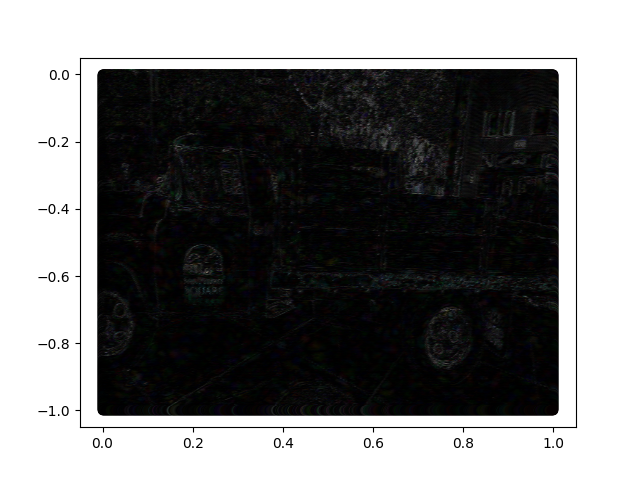
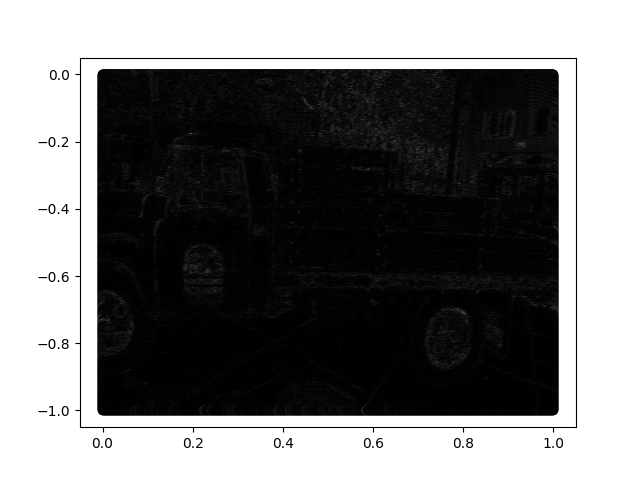
Updates

diff --git a/models/PeriodicPrimitives2D.py b/models/PeriodicPrimitives2D.py
@@ -78,11 +78,11 @@ class PeriodicPrimitives2D(torch.nn.Module):
     
     def create_optimizer(self):
         l = [
-            {'params': [self.gaussian_colors], 'lr': 0.01, "name": "gaussian_colors"},
-            {'params': [self.gaussian_positions], 'lr': 0.01, "name": "gaussian_positions"},
-            {'params': [self.gaussian_scales], 'lr': 0.01, "name": "gaussian_scales"},
-            {'params': [self.gaussian_rotations], 'lr': 0.1, "name": "gaussian_rotations"},
-            {'params': [self.wave_coefficients], 'lr': 0.01, "name": "wave_coefficients"},
+            {'params': [self.gaussian_colors], 'lr': 0.005, "name": "gaussian_colors"},
+            {'params': [self.gaussian_positions], 'lr': 0.005, "name": "gaussian_positions"},
+            {'params': [self.gaussian_scales], 'lr': 0.005, "name": "gaussian_scales"},
+            {'params': [self.gaussian_rotations], 'lr': 0.005, "name": "gaussian_rotations"},
+            {'params': [self.wave_coefficients], 'lr': 0.005, "name": "wave_coefficients"},
         ]
         optimizer = torch.optim.Adam(l, lr=0.0, eps=1e-15)
         return optimizer
@@ -97,7 +97,7 @@ class PeriodicPrimitives2D(torch.nn.Module):
         return total
     
     def add_primitives_random(self, num_gaussians):
-        new_colors = 0.1*(torch.randn([num_gaussians, self.n_channels], 
+        new_colors = 0.05*(torch.randn([num_gaussians, self.n_channels], 
                 dtype=torch.float32, device=self.device))
         new_positions = torch.rand([num_gaussians, self.num_dimensions], 
                 dtype=torch.float32, device=self.device)
@@ -105,7 +105,7 @@ class PeriodicPrimitives2D(torch.nn.Module):
                 dtype=torch.float32,  device=self.device)
         new_rotations = torch.pi*torch.rand([num_gaussians, 1],
                 dtype=torch.float32,  device=self.device)
-        new_wave_coefficients = 0.05*torch.randn([num_gaussians, self.n_frequencies, self.num_dimensions],
+        new_wave_coefficients = 0.1*torch.randn([num_gaussians, self.n_frequencies, self.num_dimensions],
                 dtype=torch.float32,  device=self.device)
         new_wave_coefficients[:,0,:] += 1.0
 

diff --git a/train.py b/train.py
@@ -19,8 +19,8 @@ if __name__ == '__main__':
     
     total_iters = 30000
     fine_tune_iters = 5000    
-    total_primitives = 2500
-    primitives_per_update = 100
+    total_primitives = 10000
+    primitives_per_update = 250
     iters_per_primitive = int((total_iters-fine_tune_iters) / (total_primitives/primitives_per_update))
     start_freq = 20
     end_freq = 512
